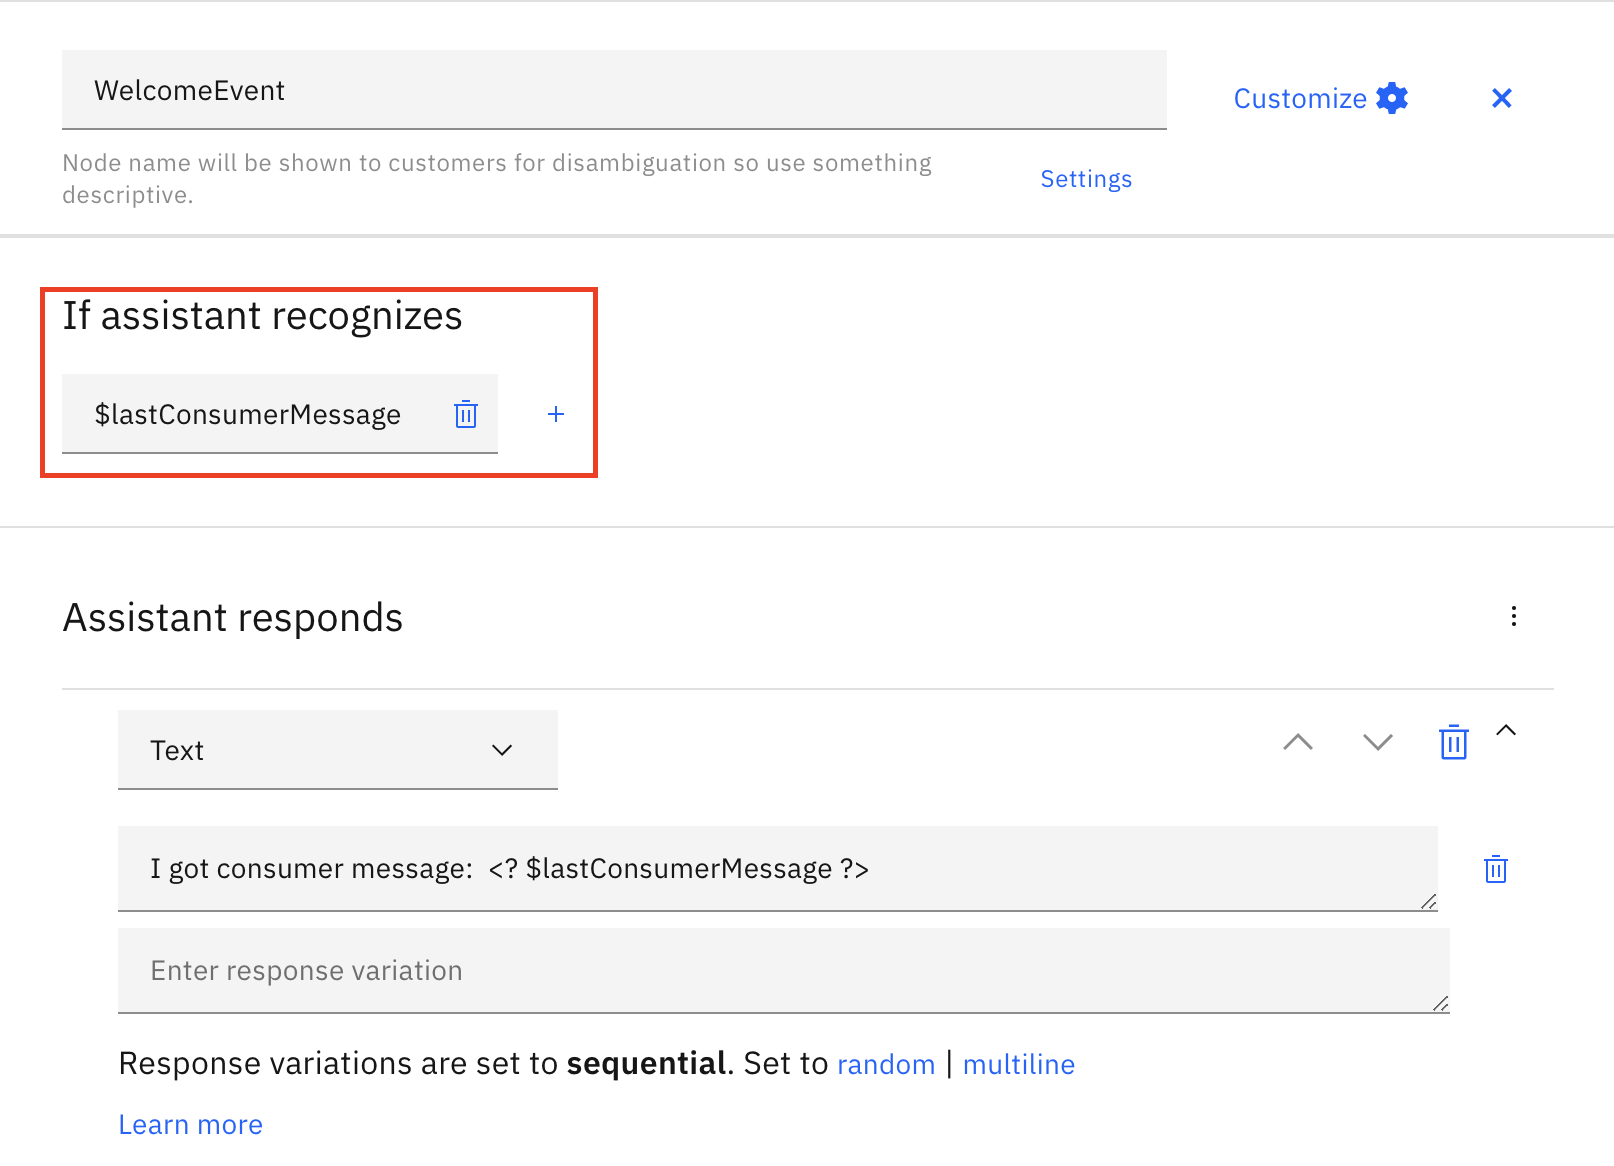
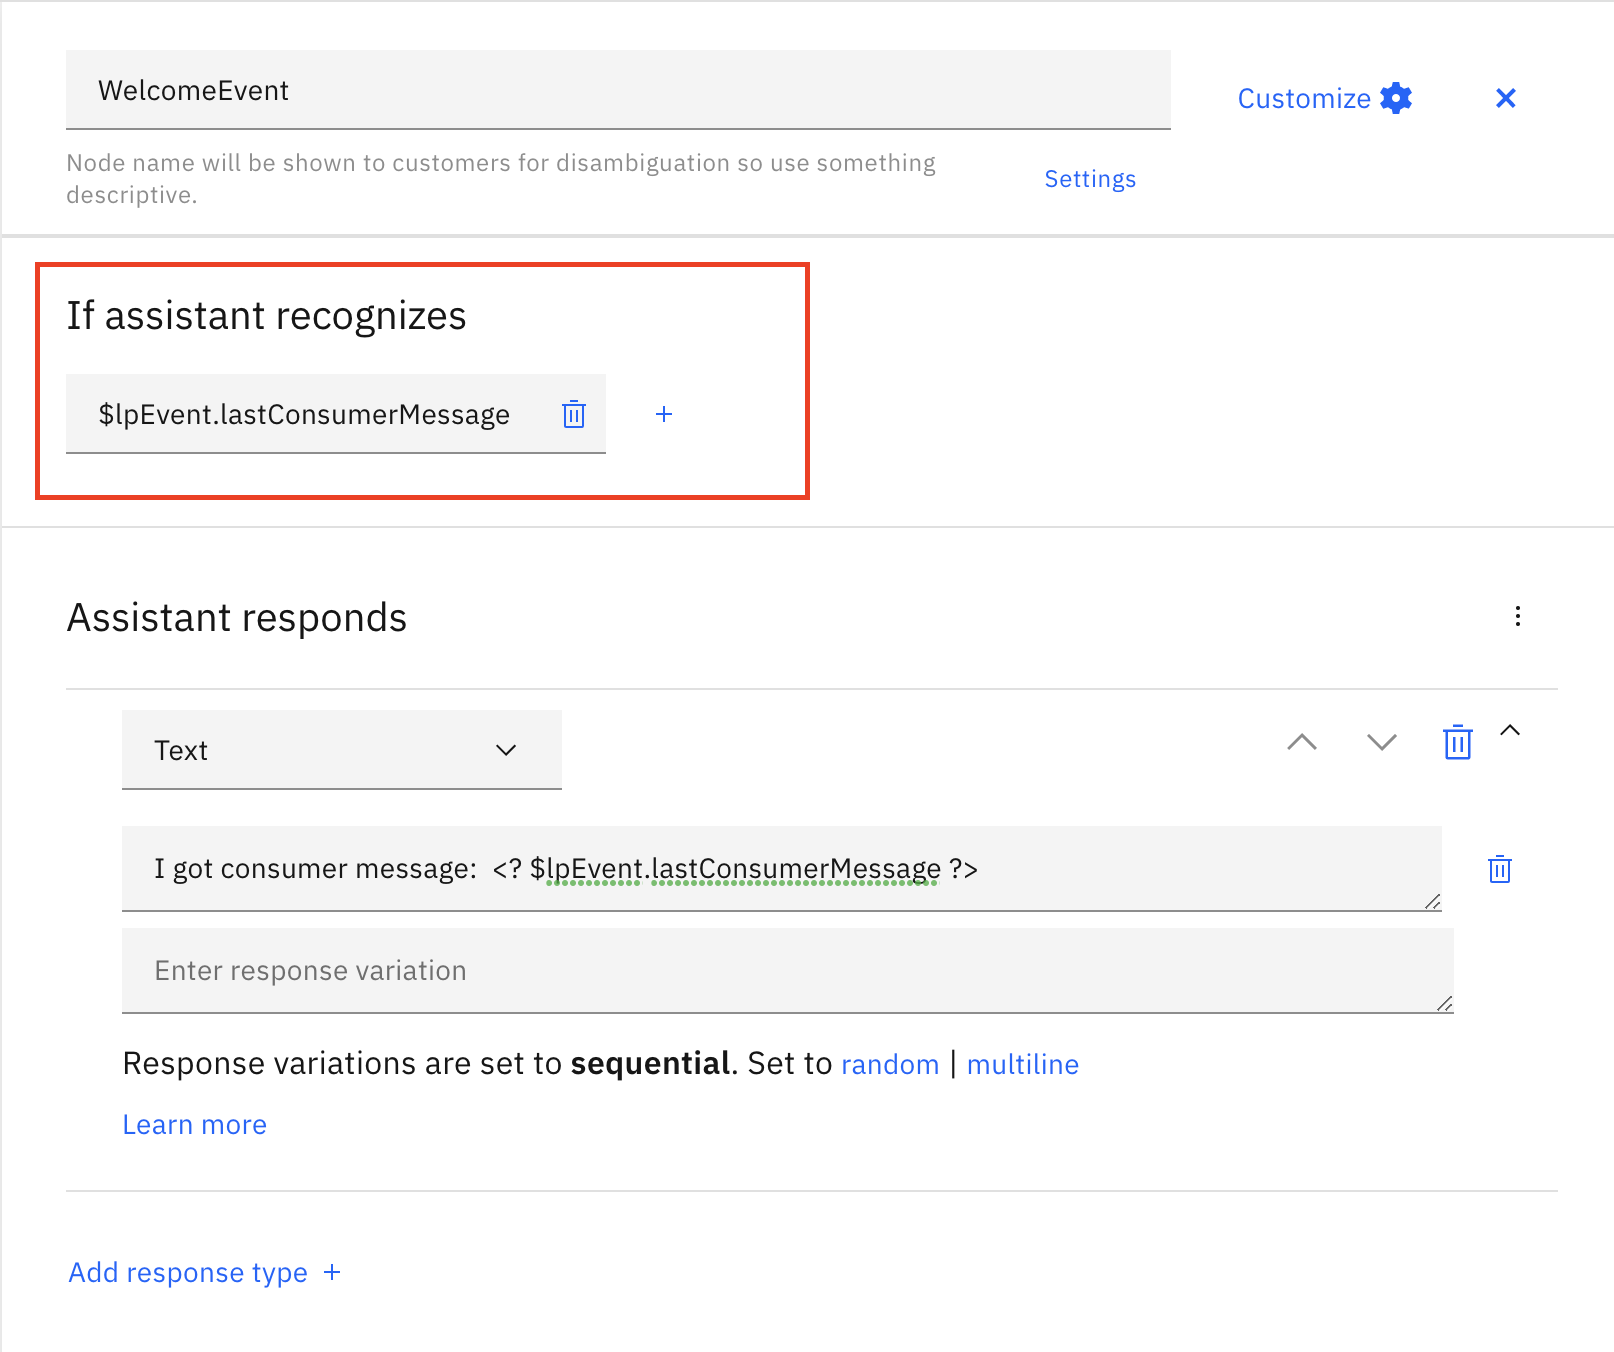
📝 update documentation for lastConsumerMessage

diff --git a/pages/Documents/ConversationalAI/Third-PartyBots/MicrosoftDirectLine/advanced-features.md b/pages/Documents/ConversationalAI/Third-PartyBots/MicrosoftDirectLine/advanced-features.md
@@ -435,7 +435,7 @@ The results can be seen in a demo below:
 
 Third-Party bot now provides a way to add the last consumer message as a part of the welcome event (messaging only). When an ongoing conversation gets transferred to a new Agent or Skill, This enhancement will allow brands to respond to the last consumer message uttered as per their needs.
 
-In Microsoft Bot the last consumer message is passed via the property `lastConsumerMessage` that is sent with `context` information. This context information within a conversation is preserved/passed in the channelData property (further information about channelData can be found [here](https://docs.microsoft.com/en-us/azure/bot-service/rest-api/bot-framework-rest-connector-api-reference?view=azure-bot-service-4.0#activity-object)).
+In Microsoft Bot the last consumer message is passed via the property `lastConsumerMessage` that is sent with `context` information as part of the `lpEvent` data. This context information within a conversation is preserved/passed in the channelData property (further information about channelData can be found [here](https://docs.microsoft.com/en-us/azure/bot-service/rest-api/bot-framework-rest-connector-api-reference?view=azure-bot-service-4.0#activity-object)).
 
 An example of the request body containing WelcomeEvent can be seen below:
 
@@ -445,12 +445,10 @@ An example of the request body containing WelcomeEvent can be seen below:
   "text": "",
   "channelData": {
     "context": {
-      "lastConsumerMessage": "I need to return my order"
       "lpEvent": {
-        "event": {
-          "type": "ContentEvent",
-          "content": "welcome"
-        }
+        "lastConsumerMessage": "I need to return my order"
+        "type": "ContentEvent",
+        "content": "welcome"
       },
       "lpSdes": {}
     }

diff --git a/pages/Documents/ConversationalAI/Third-PartyBots/LivePersonFunctions/advanced-features.md b/pages/Documents/ConversationalAI/Third-PartyBots/LivePersonFunctions/advanced-features.md
@@ -417,18 +417,19 @@ We can see the above LivePerson function in action below:
 
 Third-Party bot now provides a way to add the last consumer message as a part of the welcome event (messaging only). When an ongoing conversation gets transferred to a new Agent or Skill, This enhancement will allow brands to respond to the last consumer message uttered as per their needs.
 
-In LivePerson functions integration last consumer message is passed via the property `lastConsumerMessage` that is sent with `context` information. An example of the request body containing WelcomeEvent can be seen below:
+In LivePerson functions integration last consumer message is passed via the property `lastConsumerMessage` that is sent with `context` information as part of `lpEvent` data. An example of the request body containing WelcomeEvent can be seen below:
 
 ```javascript
 const {
   message,
   convId,
   context: {
-    lastConsumerMessage,
-    lpEvent: {
-      event: { type, content }, // this contain the ContentEvent with content value `welcome`
-    },
-  },
+    lpEvent: { 
+      type, 
+      content,
+      lastConsumerMessage
+    } // this contain the ContentEvent with content value `welcome`
+  }
 } = input.payload;
 ```
 
@@ -444,8 +445,8 @@ function lambda(input, callback) {
   const {
     message,
     context: {
-      lastConsumerMessage = "",
       lpEvent: { 
+        lastConsumerMessage = "",
         type = "",
         content = "" 
       } = {}

diff --git a/pages/Documents/ConversationalAI/Third-PartyBots/CustomEndpoint/advanced-features.md b/pages/Documents/ConversationalAI/Third-PartyBots/CustomEndpoint/advanced-features.md
@@ -375,9 +375,6 @@ expected by Third-Party Bot Connector can be found at [API Service Specification
         }
       ]
     }
-  },
-  "context": {
-    // here comes context information
   }
 }
 ```
@@ -400,17 +397,17 @@ Figure 4.8 A Demo of sending raw response back from Custom Endpoint Service on r
 
 Third-Party bot now provides a way to add the last consumer message as a part of the welcome event (messaging only). When an ongoing conversation gets transferred to a new Agent or Skill, This enhancement will allow brands to respond to the last consumer message uttered as per their needs.
 
-In Custom Endpoint service, last consumer message is passed via the property `lastConsumerMessage` that is sent as property of the event `data` information. An example of the request body containing WelcomeEvent can be seen below:
+In Custom Endpoint service, last consumer message is passed via the property `lastConsumerMessage` that is sent as property of the `rawEvent` information. An example of the request body containing WelcomeEvent can be seen below:
 
 ```javascript
 {
   "type": "START",
   "source": "CONVERSATION",
-  "data": {
-    "lastConsumerMessage": "I need to return my order"
-  },
-  "context": {
-    // here comes context information
+  "data": {},
+  "rawEvent": {
+    type: "ContentEvent",
+    contentType: "welcome",
+    lastConsumerMessage: "I need to return my order",
   }
 }
 ```

diff --git a/pages/Documents/ConversationalAI/Third-PartyBots/IBMWatsonAssistant/advanced-features.md b/pages/Documents/ConversationalAI/Third-PartyBots/IBMWatsonAssistant/advanced-features.md
@@ -339,7 +339,7 @@ A demo of our WhatsApp map example with the above bot configuration (defined abo
 
 Third-Party bot now provides a way to add the last consumer message as a part of the welcome event (messaging only). When an ongoing conversation gets transferred to a new Agent or Skill, This enhancement will allow brands to respond to the last consumer message uttered as per their needs.
 
-The `lastConsumerMessage` is part of the context that is sent by Third-Party Bots. Thus, for Watson Assistant, we can leverage the [Context Variables](https://cloud.ibm.com/docs/assistant?topic=assistant-dialog-runtime-context#dialog-runtime-context-variables)
+The last consumer message is passed via the property `lastConsumerMessage` which is part of another property `lpEvent` that is sent with `context` information by Third-Party Bots. Thus, for Watson Assistant, we can leverage the [Context Variables](https://cloud.ibm.com/docs/assistant?topic=assistant-dialog-runtime-context#dialog-runtime-context-variables)
 
 An example of accessing `lastConsumerMessage` from that context variable can be seen in Figure 3.10.
 

diff --git a/pages/Documents/ConversationalAI/Third-PartyBots/GoogleDialogflowCX/advanced-features.md b/pages/Documents/ConversationalAI/Third-PartyBots/GoogleDialogflowCX/advanced-features.md
@@ -319,13 +319,16 @@ The minimal code example below shows how to check if `lastConsumerMessage` prope
 exports.handleWebhook = (request, response) => {
   const {
     payload: {
-      lastConsumerMessage
+      lpEvent: {
+        contentType,
+        lastConsumerMessage
+      } = {}
     } = {} 
   } = req.body;
 
   let fulfillmentResponse;
 
-  if (lastConsumerMessage) {
+  if (contentType === 'welcome'  && lastConsumerMessage) {
     fulfillmentResponse = {
       fulfillmentResponse: {
         messages: [

diff --git a/pages/Documents/ConversationalAI/Third-PartyBots/AmazonLex/advanced-features.md b/pages/Documents/ConversationalAI/Third-PartyBots/AmazonLex/advanced-features.md
@@ -352,7 +352,7 @@ function dispatch(intentRequest, callback) {
 
   if (requestAttributes && requestAttributes['BC-LP-CONTEXT']) {
     const parsedLpContext = JSON.parse(requestAttributes['BC-LP-CONTEXT']);
-    if (parsedLpContext.lastConsumerMessage) {
+    if (parsedLpContext.lpEvent && parsedLpContext.lpEvent.lastConsumerMessage) {
       response = `I received lastConsumerMessage: ${parsedLpContext.lastConsumerMessage}`;
     }
     else {

diff --git a/pages/Documents/ConversationalAI/Third-PartyBots/GoogleDialogflowES/advanced-features.md b/pages/Documents/ConversationalAI/Third-PartyBots/GoogleDialogflowES/advanced-features.md
@@ -420,8 +420,10 @@ exports.handleWebhook = (request, response) => {
   const {
     originalDetectIntentRequest: {
       payload: { 
-        lpEvent: {contentType},
-        lastConsumerMessage
+        lpEvent: {
+          contentType,
+          lastConsumerMessage
+        }
       } = {},
     } = {},
   } = request.body;
